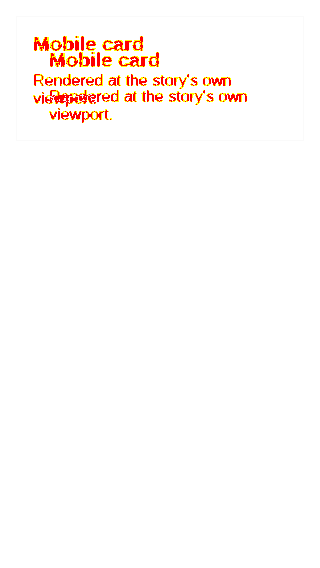
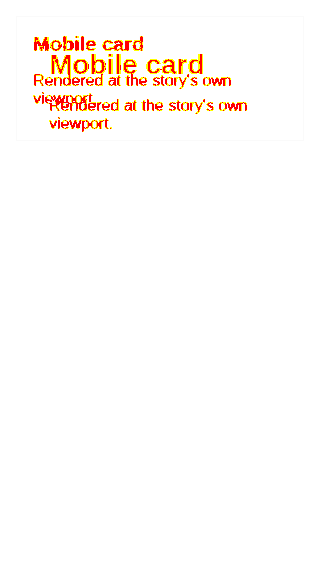
Publish visual report for PR #28

Changed region(s): [[0.1562, 0.0898, 0.7812, 0.2394]]

diff --git a/pr-preview/pr-28/visual/index.html b/pr-preview/pr-28/visual/index.html
@@ -46,4 +46,4 @@ Error generating stack: `+e.message+`
     <div id='root'></div>
   </body>
 </html>
[2 lines of base64/hex data omitted]

diff --git a/pr-preview/pr-28/visual/data/f87c34c81f604a1a25c49d3159d01a82d2c3dfb5.md b/pr-preview/pr-28/visual/data/f87c34c81f604a1a25c49d3159d01a82d2c3dfb5.md
@@ -14,7 +14,7 @@
 ```
 Error: expect(page).toHaveScreenshot(expected) failed
 
-  2778 pixels (ratio 0.02 of all image pixels) are different.
+  3006 pixels (ratio 0.02 of all image pixels) are different.
 
   Snapshot: fixture-card--mobile.png
 
@@ -25,14 +25,14 @@ Call log:
     - disabled all CSS animations
   - waiting for fonts to load...
   - fonts loaded
-  - 2778 pixels (ratio 0.02 of all image pixels) are different.
+  - 3006 pixels (ratio 0.02 of all image pixels) are different.
   - waiting 100ms before taking screenshot
   - taking page screenshot
     - disabled all CSS animations
   - waiting for fonts to load...
   - fonts loaded
   - captured a stable screenshot
-  - 2778 pixels (ratio 0.02 of all image pixels) are different.
+  - 3006 pixels (ratio 0.02 of all image pixels) are different.
 
 ```
 
